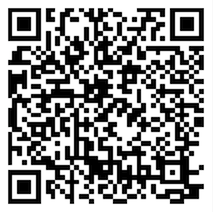
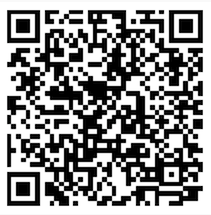
Change Bitcoin target to segwit style

diff --git a/README.md b/README.md
@@ -91,4 +91,4 @@ Puppet modules on the Puppet Forge are open projects, and community contribution
 ## Donate
 
 If you like this project feel free to support via Bitcoin
-[![BitCoin Wallet 14aHsE36fPdgc2X4envRUVH7WpRPSyf4TH ](https://github.com/rtib/puppet-zookeeperd/raw/master/donate.png)](bitcoin:14aHsE36fPdgc2X4envRUVH7WpRPSyf4TH?label=donate%3A%20PuppetForge%20trepasi%20zookeeperd)
+[![BitCoin Wallet 3Cmcvt2zZ4owgW6SBUMXHkNvJu4mq6GoNu ](https://github.com/rtib/puppet-zookeeperd/raw/master/donate.png)](bitcoin:3Cmcvt2zZ4owgW6SBUMXHkNvJu4mq6GoNu?label=donate%3A%20PuppetForge%20trepasi%20zookeeperd)
